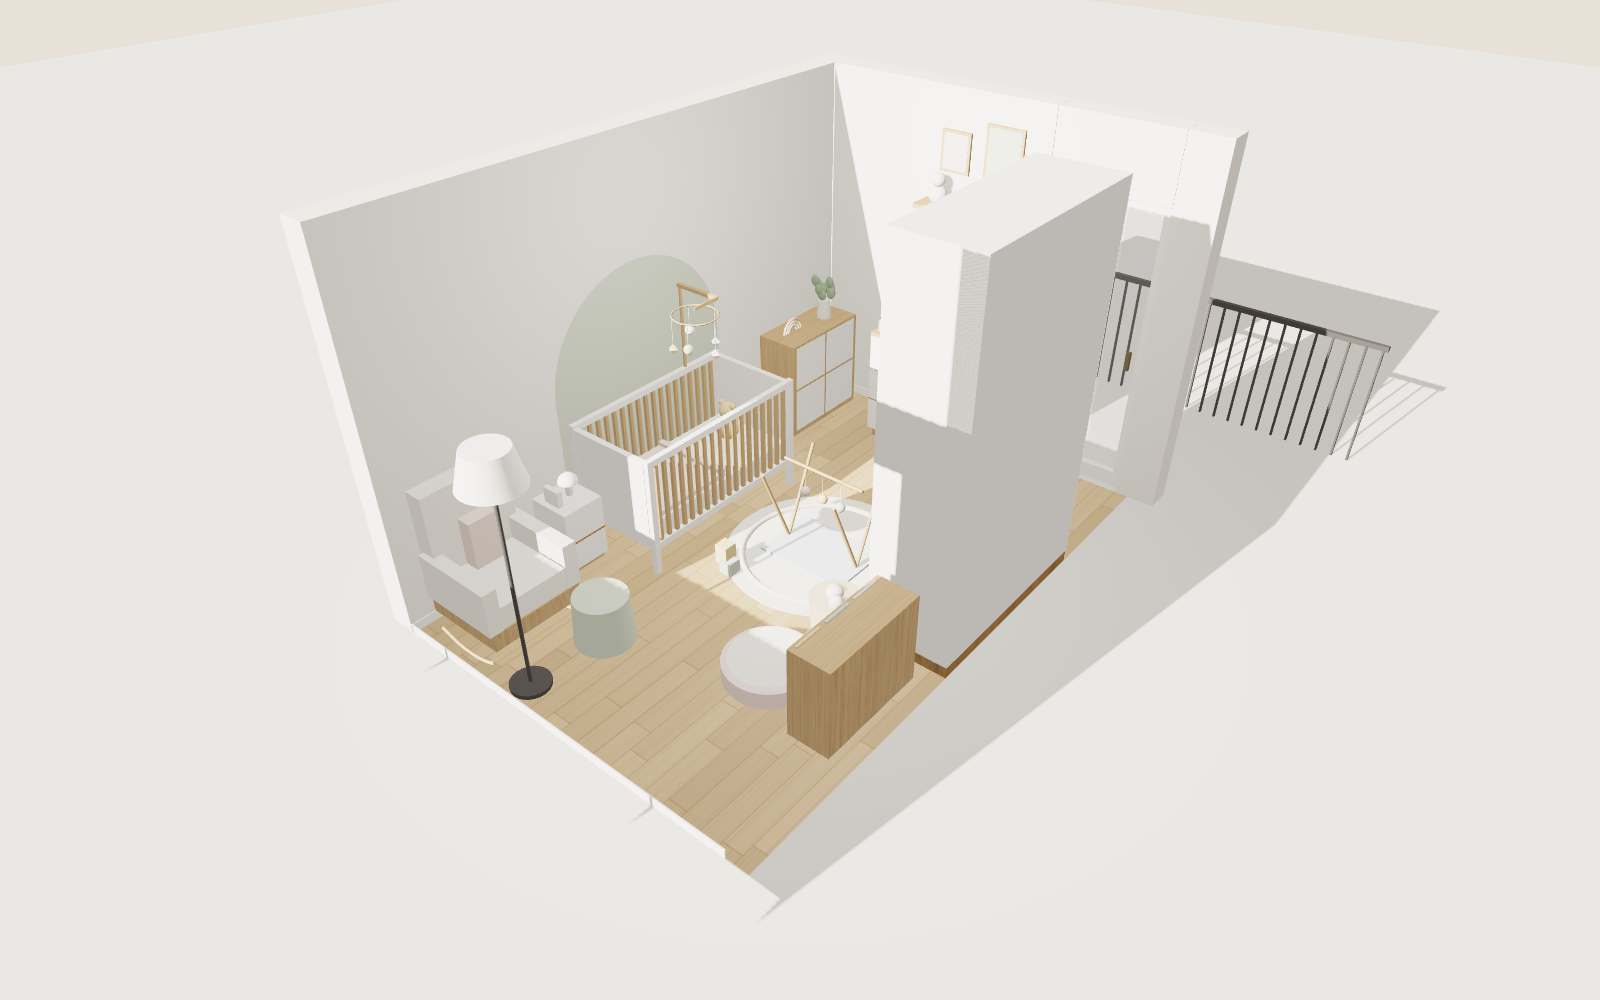
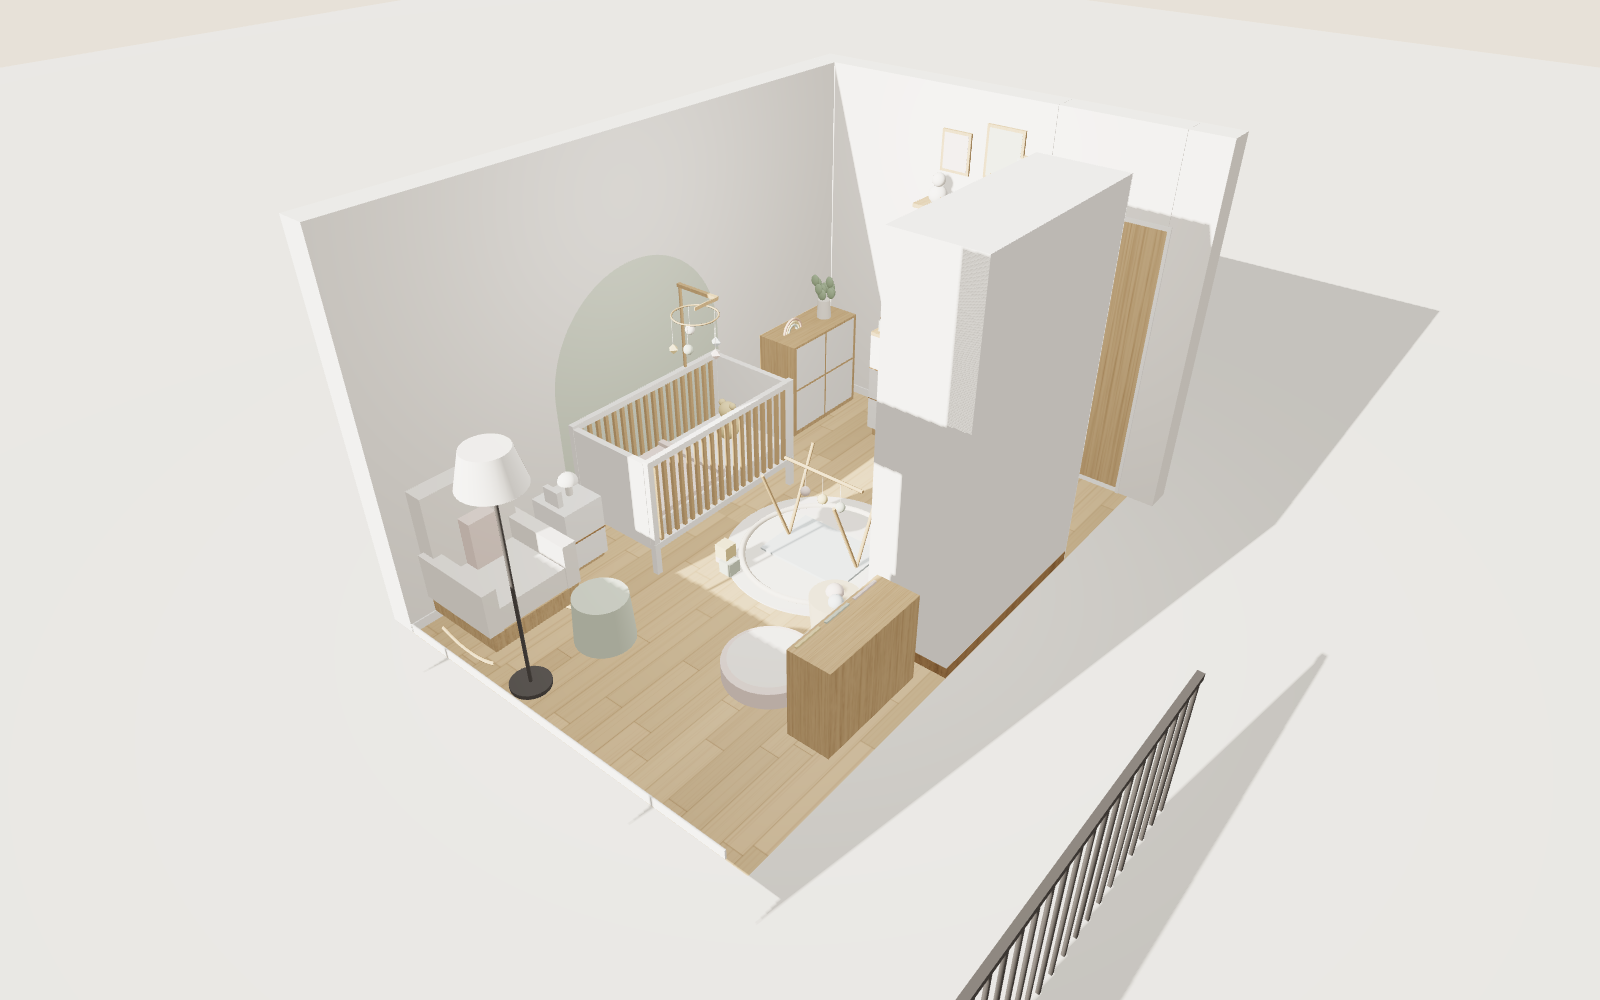
Детска стая: горната врата е входът от коридора, долната вдясно е към терасата (#53)
Claude-Session: https://claude.ai/code/session_01WsXm7T7fP4YKgYjGtNXWfj

Changed region(s): [[0.5938, 0.682, 0.8125, 1.0], [0.6562, 0.186, 0.9062, 0.496], [0.8125, 0.651, 0.8438, 0.682]]

diff --git a/interior/detska/model.html b/interior/detska/model.html
@@ -42,7 +42,7 @@ button:focus-visible{outline:2px solid #d9a760;outline-offset:2px}
 <div id="stage" aria-label="3D визуализация на детската стая"></div>
 <div class="card">
   <h1>Детска стая</h1>
-  <p>Кошара-легло 70 × 140, скрин с повивалник, гардероб, люлеещ се стол за кърмене до прозорците, кът за четене и рафт за играчки. Вратата срещу прозорците е към терасата. ≈ 285 × 430 см, таван 270 см.</p>
+  <p>Кошара-легло 70 × 140, скрин с повивалник, гардероб, люлеещ се стол за кърмене до прозорците, кът за четене и рафт за играчки. Вратата в долния десен ъгъл е към терасата, прозорците са до нея. ≈ 285 × 430 см, таван 270 см.</p>
 </div>
 <div class="hint">Влачи за завъртане, скрол или щипване за приближаване</div>
 <div class="bar">
@@ -170,14 +170,14 @@ button:focus-visible{outline:2px solid #d9a760;outline-offset:2px}
   Object.keys(walls).forEach(function(k){wallMats[k]=M.wall.clone();scene.add(walls[k]);});
   function wb(side,x1,x2,y1,y2,z1,z2){box(x1,x2,y1,y2,z1,z2,wallMats[side],{parent:walls[side]});}
   var DH=2.05;
-  // North wall: balcony door to the terrace 186,5 → 275 (88,5 cm)
-  wb('N',-T,1.865,0,H,-T,0);wb('N',1.865,2.75,DH+0.15,H,-T,0);wb('N',2.75,W+T,0,H,-T,0);
+  // North wall: entrance from the corridor 186,5 → 275 (88,5 cm)
+  wb('N',-T,1.865,0,H,-T,0);wb('N',1.865,2.75,DH,H,-T,0);wb('N',2.75,W+T,0,H,-T,0);
   // West wall (plain)
   wb('Wt',-T,0,0,H,0,D);
   // South wall: windows 35 → 215, sill 85
   var WN1=0.35,WN2=2.15;
   wb('S',-T,WN1,0,H,D,D+T);wb('S',WN1,WN2,0,0.85,D,D+T);wb('S',WN1,WN2,2.4,H,D,D+T);wb('S',WN2,W+T,0,H,D,D+T);
-  // East wall with the 15,5 cm step; entrance door 357,5 → 426
+  // East wall with the 15,5 cm step; balcony door to the terrace 357,5 → 426
   wb('E',W,W+T,0,H,-T,STEPZ);
   wb('E',WX,W+T,0,H,STEPZ,3.575);wb('E',WX,W+T,DH,H,3.575,4.26);wb('E',WX,W+T,0,H,4.26,D+T);
   var ceilMat=M.ceiling.clone();
@@ -185,17 +185,15 @@ button:focus-visible{outline:2px solid #d9a760;outline-offset:2px}
   // skirting
   box(0,1.865,0,0.07,0,0.012,M.white,{cast:false});box(0,0.012,0,0.07,0,D,M.white,{cast:false});box(0,WX,0,0.07,D-0.012,D,M.white,{cast:false});
 
-  // Balcony door (glazed, white frame)
-  var BDH=DH+0.15;
-  box(1.865,2.75,BDH-0.001,BDH,-T,0,M.white,{parent:walls.N,cast:false});
-  box(1.865,2.75,0.12,BDH-0.08,-0.1,-0.09,glass,{parent:walls.N,cast:false});
-  [[1.865,1.93,0,BDH],[2.685,2.75,0,BDH],[1.865,2.75,BDH-0.08,BDH],[1.865,2.75,0,0.12]].forEach(function(a){box(a[0],a[1],a[2],a[3],-0.12,-0.06,M.frame,{parent:walls.N});});
-  box(2.62,2.65,0.98,1.12,-0.06,-0.03,M.brass,{parent:walls.N});
+  // Entrance door from the corridor (light oak) + frame
+  box(1.865,2.75,0,DH,-0.1,-0.06,M.oak,{parent:walls.N});box(1.93,2.0,0.99,1.01,-0.05,-0.02,M.brass,{parent:walls.N});
+  box(1.84,1.865,0,DH+0.03,-0.02,0.01,M.white,{parent:walls.N});box(2.75,2.775,0,DH+0.03,-0.02,0.01,M.white,{parent:walls.N});box(1.84,2.775,DH,DH+0.03,-0.02,0.01,M.white,{parent:walls.N});
+  // Balcony door to the terrace (glazed, white frame) on the stepped east wall
+  box(WX+0.09,WX+0.1,0.12,DH-0.08,3.575,4.26,glass,{parent:walls.E,cast:false});
+  [[0,DH,3.575,3.64],[0,DH,4.195,4.26],[DH-0.08,DH,3.575,4.26],[0,0.12,3.575,4.26]].forEach(function(a){box(WX+0.06,WX+0.12,a[0],a[1],a[2],a[3],M.frame,{parent:walls.E});});
+  box(WX+0.03,WX+0.06,0.98,1.12,3.66,3.69,M.brass,{parent:walls.E});
   // terrace railing outside
-  box(1.2,4.0,0.96,1.0,-1.6,-1.56,M.black);for(var rx=1.2;rx<=4.0;rx+=0.12)box(rx,rx+0.015,0,0.96,-1.59,-1.57,M.black);
-  // Entrance door (light oak) + frame
-  box(WX+0.06,WX+0.1,0,DH,3.575,4.26,M.oak,{parent:walls.E});box(WX+0.02,WX+0.05,0.99,1.01,3.64,3.71,M.brass,{parent:walls.E});
-  box(WX-0.01,WX+0.02,0,DH+0.03,3.55,3.575,M.white,{parent:walls.E});box(WX-0.01,WX+0.02,0,DH+0.03,4.26,4.285,M.white,{parent:walls.E});box(WX-0.01,WX+0.02,DH,DH+0.03,3.55,4.285,M.white,{parent:walls.E});
+  box(W+1.4,W+1.44,0.96,1.0,2.6,6.0,M.black);for(var rz=2.6;rz<=6.0;rz+=0.12)box(W+1.41,W+1.43,0,0.96,rz,rz+0.015,M.black);
 
   // Windows (south wall, two sashes)
   box(WN1-0.02,WN2+0.02,0.83,0.86,D-0.04,D+0.04,M.white,{parent:walls.S});
@@ -343,8 +341,8 @@ button:focus-visible{outline:2px solid #d9a760;outline-offset:2px}
   // ---------- Views ----------
   var views={
     overview:{pos:[W+2.3,4.6,D+2.4],tgt:[W/2,0.5,D/2]},
-    entry:{pos:[2.45,1.55,3.95],tgt:[0.4,0.9,1.3]},
-    door2:{pos:[2.3,1.6,0.2],tgt:[0.6,0.8,3.6]},
+    entry:{pos:[2.3,1.6,0.2],tgt:[0.6,0.8,3.6]},
+    door2:{pos:[2.45,1.55,3.95],tgt:[0.4,0.9,1.3]},
     window:{pos:[1.7,1.5,4.05],tgt:[0.9,0.8,0.3]},
     crib:{pos:[2.0,1.6,3.3],tgt:[0.3,0.6,1.9]},
     top:{pos:[W/2,7.5,D/2+0.01],tgt:[W/2,0,D/2]}

diff --git a/interior/detska/index.html b/interior/detska/index.html
@@ -9,18 +9,18 @@ a{color:#8e3b22}ul{margin:0;padding-left:18px;line-height:1.9}.g{display:grid;gr
 .g img{width:100%;border-radius:6px;display:block}.m{color:#5d5a54;font-size:14px}
 .rooms{display:grid;grid-template-columns:repeat(auto-fill,minmax(220px,1fr));gap:12px}.room{display:block;background:#fff;border:1px solid #d8d5cd;border-radius:10px;overflow:hidden;color:inherit;text-decoration:none}
 .room img{width:100%;aspect-ratio:16/10;object-fit:cover;display:block}.room div{padding:10px 12px}.room b{display:block;font-size:16px}.room span{font-size:13px;color:#5d5a54}</style></head>
-<body><main><div class="k"><a href="../">← АПАРТАМЕНТ</a> · ИНТЕРИОР</div><h1>Детска стая</h1><p class="m">≈ 285 × 430 см · ≈ 12 м² · височина 270 см · врата към терасата 88,5 см · вход ≈ 68,5 см · прозорците са на стената срещу терасата</p>
-<section><h2>Интерактивен 3D модел</h2><ul><li><a href="model.html?v=k7">3D модел</a> (изгледи: от входа, от терасата, от прозорците, кошарата, отгоре; ден/вечер)</li></ul><p class="m">Кошара-легло 70 × 140, скрин с повивалник, гардероб 150 × 60, стол-люлка за кърмене до прозорците, рафт за играчки, кът за четене, кръгъл килим с арка за игра. Цветове: светъл дъб, бяло, sage зелено и пудра.</p></section>
-<section><h2>2D план</h2><ul><li><a href="plan.pdf?v=k7">PDF</a> · <a href="plan.png?v=k7">PNG</a></li></ul><div class="g">
-<a href="plan.png?v=k7"><img src="plan.png?v=k7" alt="План"></a>
+<body><main><div class="k"><a href="../">← АПАРТАМЕНТ</a> · ИНТЕРИОР</div><h1>Детска стая</h1><p class="m">≈ 285 × 430 см · ≈ 12 м² · височина 270 см · вход от коридора 88,5 см · врата към терасата ≈ 68,5 см · прозорците са до нея</p>
+<section><h2>Интерактивен 3D модел</h2><ul><li><a href="model.html?v=k8">3D модел</a> (изгледи: от входа, от терасата, от прозорците, кошарата, отгоре; ден/вечер)</li></ul><p class="m">Кошара-легло 70 × 140, скрин с повивалник, гардероб 150 × 60, стол-люлка за кърмене до прозорците, рафт за играчки, кът за четене, кръгъл килим с арка за игра. Цветове: светъл дъб, бяло, sage зелено и пудра.</p></section>
+<section><h2>2D план</h2><ul><li><a href="plan.pdf?v=k8">PDF</a> · <a href="plan.png?v=k8">PNG</a></li></ul><div class="g">
+<a href="plan.png?v=k8"><img src="plan.png?v=k8" alt="План"></a>
 </div></section>
 <section><h2>Рендери (от 3D модела)</h2><div class="g">
-<a href="renders/0-obsht-izgled.png?v=k7"><img src="renders/0-obsht-izgled.png?v=k7" alt="Общ изглед"></a>
-<a href="renders/0b-otgore.png?v=k7"><img src="renders/0b-otgore.png?v=k7" alt="Отгоре"></a>
-<a href="renders/1-ot-vhoda.png?v=k7"><img src="renders/1-ot-vhoda.png?v=k7" alt="От входа"></a>
-<a href="renders/2-ot-terasata.png?v=k7"><img src="renders/2-ot-terasata.png?v=k7" alt="От терасата"></a>
-<a href="renders/3-ot-prozorcite.png?v=k7"><img src="renders/3-ot-prozorcite.png?v=k7" alt="От прозорците"></a>
-<a href="renders/4-koshara.png?v=k7"><img src="renders/4-koshara.png?v=k7" alt="Кошарата"></a>
-<a href="renders/5-vecher-ot-vhoda.png?v=k7"><img src="renders/5-vecher-ot-vhoda.png?v=k7" alt="Вечер, от входа"></a>
+<a href="renders/0-obsht-izgled.png?v=k8"><img src="renders/0-obsht-izgled.png?v=k8" alt="Общ изглед"></a>
+<a href="renders/0b-otgore.png?v=k8"><img src="renders/0b-otgore.png?v=k8" alt="Отгоре"></a>
+<a href="renders/1-ot-vhoda.png?v=k8"><img src="renders/1-ot-vhoda.png?v=k8" alt="От входа"></a>
+<a href="renders/2-ot-terasata.png?v=k8"><img src="renders/2-ot-terasata.png?v=k8" alt="От терасата"></a>
+<a href="renders/3-ot-prozorcite.png?v=k8"><img src="renders/3-ot-prozorcite.png?v=k8" alt="От прозорците"></a>
+<a href="renders/4-koshara.png?v=k8"><img src="renders/4-koshara.png?v=k8" alt="Кошарата"></a>
+<a href="renders/5-vecher-ot-vhoda.png?v=k8"><img src="renders/5-vecher-ot-vhoda.png?v=k8" alt="Вечер, от входа"></a>
 </div></section>
 </main></body></html>

diff --git a/interior/index.html b/interior/index.html
@@ -15,7 +15,7 @@ a{color:#8e3b22}ul{margin:0;padding-left:18px;line-height:1.9}.g{display:grid;gr
 <a class="room" href="hol-kuhnya/"><img src="hol-kuhnya/renders/2-ot-vhoda-kam-hola.png" alt=""><div><b>Хол + кухня</b><span>588 × 471 см · ≈ 27,5 м² · ⭐ любим: <b style="display:inline;font-size:13px">v4</b></span></div></a>
 <a class="room" href="spalnya/"><img src="spalnya/renders/1-ot-vhoda.png" alt=""><div><b>Спалня</b><span>302 × 353 см · ≈ 10,6 м²</span></div></a>
 <a class="room" href="banya/"><img src="banya/renders/1-ot-vhoda.png" alt=""><div><b>Основна баня</b><span>301 × 139 см · ≈ 3,92 м²</span></div></a>
-<a class="room" href="detska/index.html?v=k7"><img src="detska/renders/1-ot-vhoda.png?v=k7" alt=""><div><b>Детска стая</b><span>≈ 285 × 430 см · ≈ 12 м²</span></div></a>
+<a class="room" href="detska/index.html?v=k8"><img src="detska/renders/1-ot-vhoda.png?v=k8" alt=""><div><b>Детска стая</b><span>≈ 285 × 430 см · ≈ 12 м²</span></div></a>
 <a class="room" href="mokro/"><div style="aspect-ratio:16/10;display:flex;align-items:center;justify-content:center;background:#e9e6df;color:#5d5a54;font-size:13px;padding:0">Предстои</div><div><b>Мокро помещение</b><span>Размерите предстоят</span></div></a>
 </div></section>
 <section><h2>Ремонт</h2><ul>
